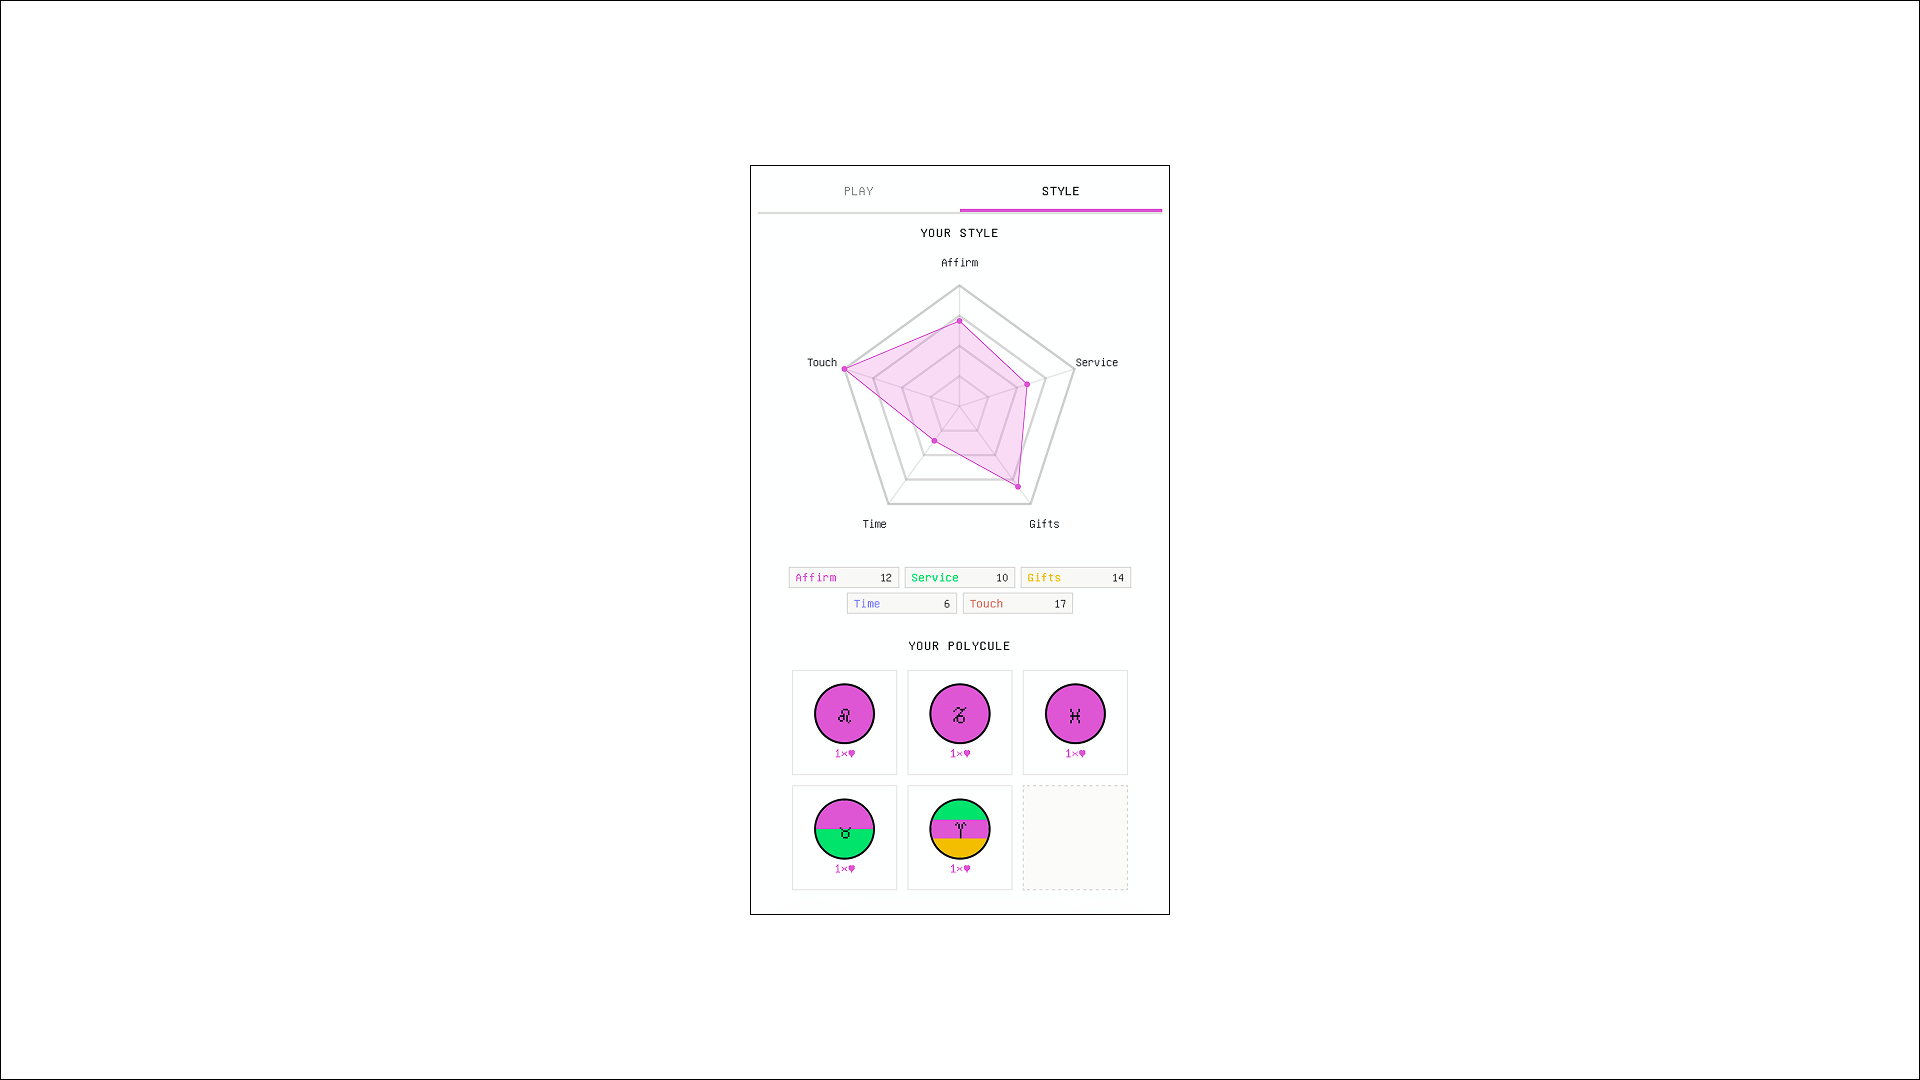
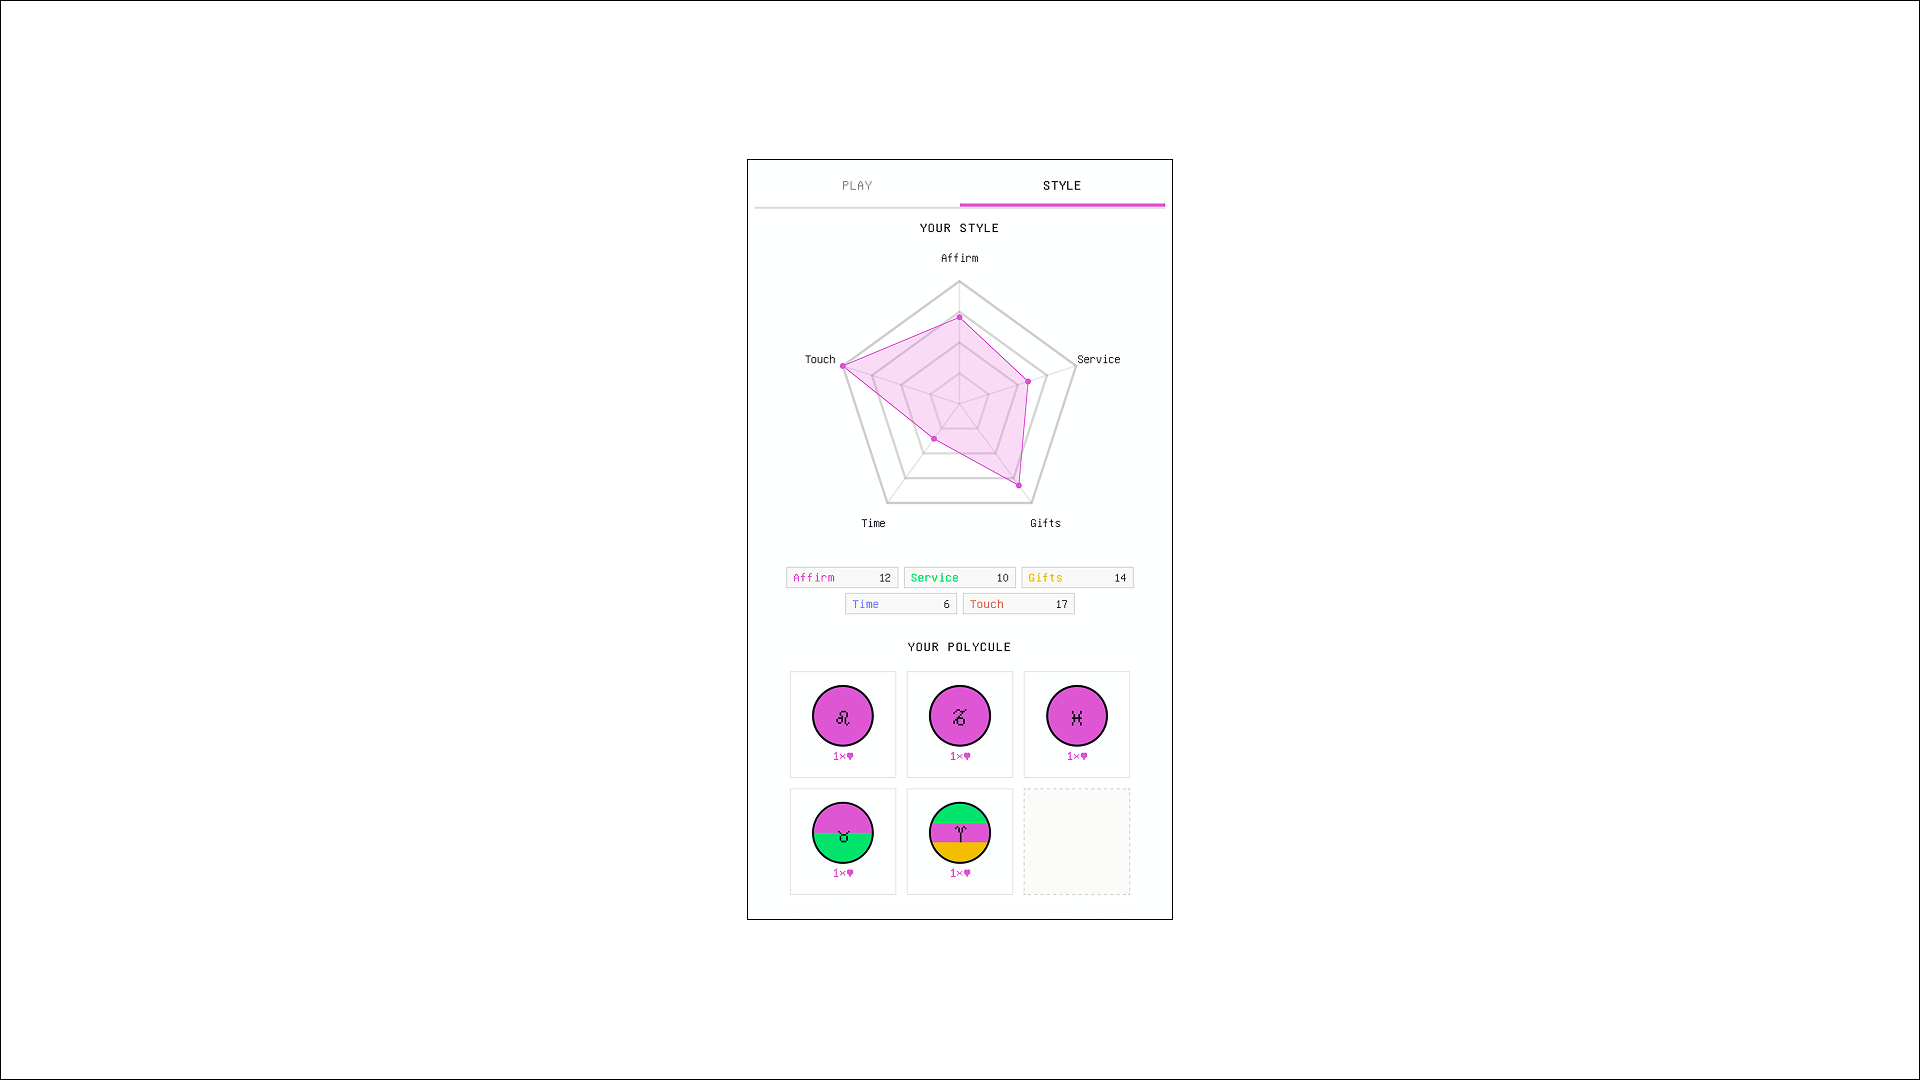
Edit README.md

diff --git a/README.md b/README.md
@@ -147,6 +147,8 @@ NGROK_DOMAIN=yourname.ngrok-free.dev
 
 > The authtoken is available at [dashboard.ngrok.com/authtokens](https://dashboard.ngrok.com/authtokens). The `NGROK_EXE` path is almost always required on macOS since Unity spawns processes outside the shell environment and won't find binaries installed via Homebrew or nvm unless the path is explicit.
 
+[![Phone controller walkthrough](https://utfs.io/f/nGnSqDveMsqxQlTxbN4ptfEy6lsGQgRBWMrJ9KFkU2edTLZc)](https://www.youtube.com/watch?v=ULUvtCjvUzc)
+
 ![Phone controller — lobby screen](screenshots/phone-01-lobby.png)
 ![Phone controller — action pad](screenshots/phone-02-action-pad.png)
 
@@ -160,6 +162,8 @@ _Polycule Molecule_ is a design research prototype created for DESIGN 6197: Game
 > Players impose narrative, identity, and strategy onto limited information, randomized symbols, and simultaneous action.
 
 [![Playtesting session](https://utfs.io/f/nGnSqDveMsqxO6P4sG0k5fKEn2LbBoPAuZ6XMTHDcNJ0QiG1)](https://www.youtube.com/watch?v=h4BhAhwitGY)
+
+![Playtesting photo](screenshots/playtest.png)
 
 ### Level 1 — Strategic Adaptation
 